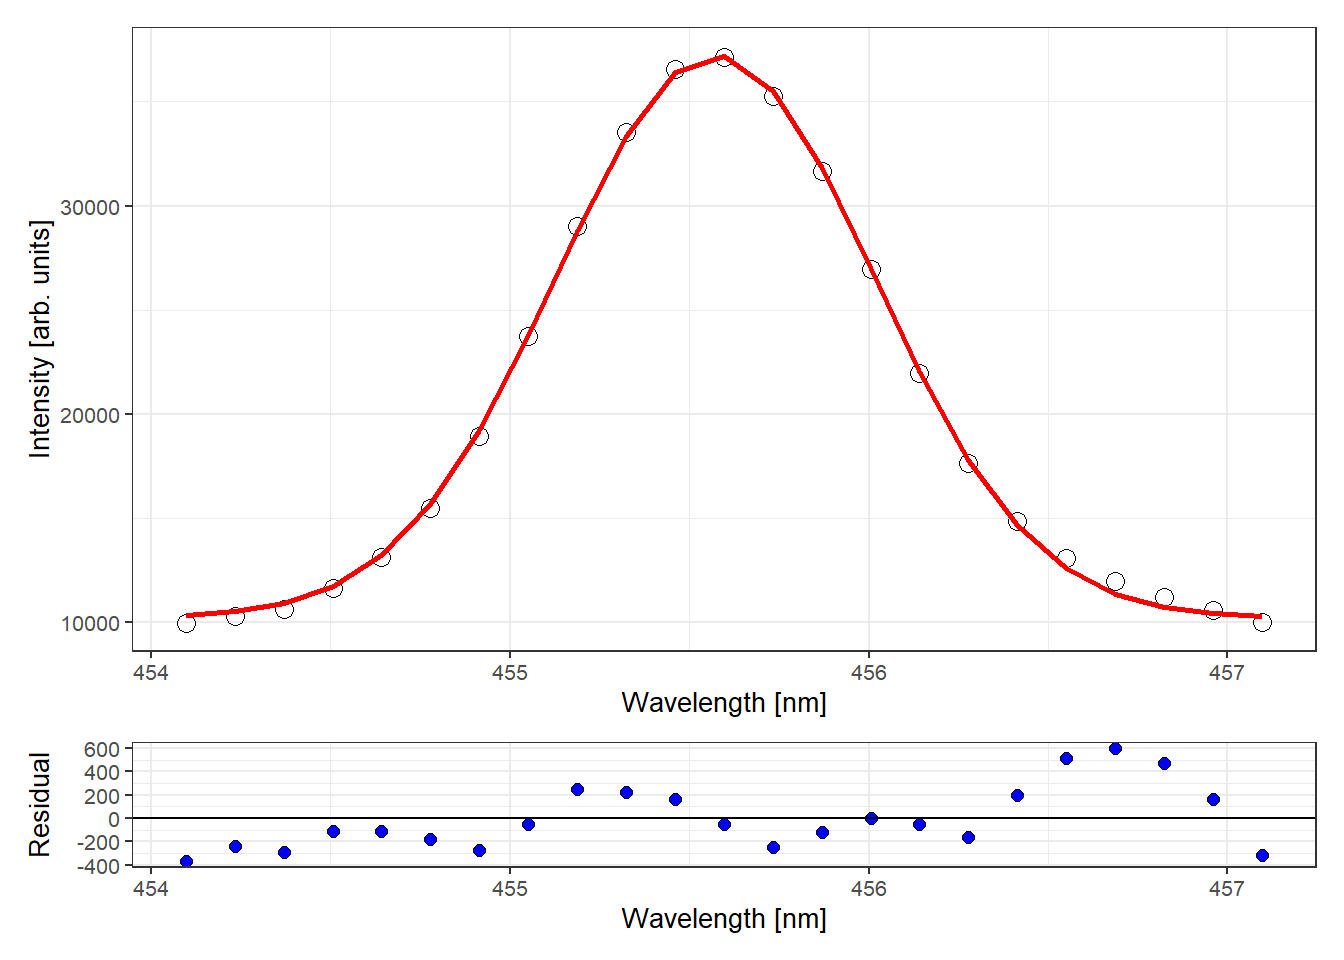
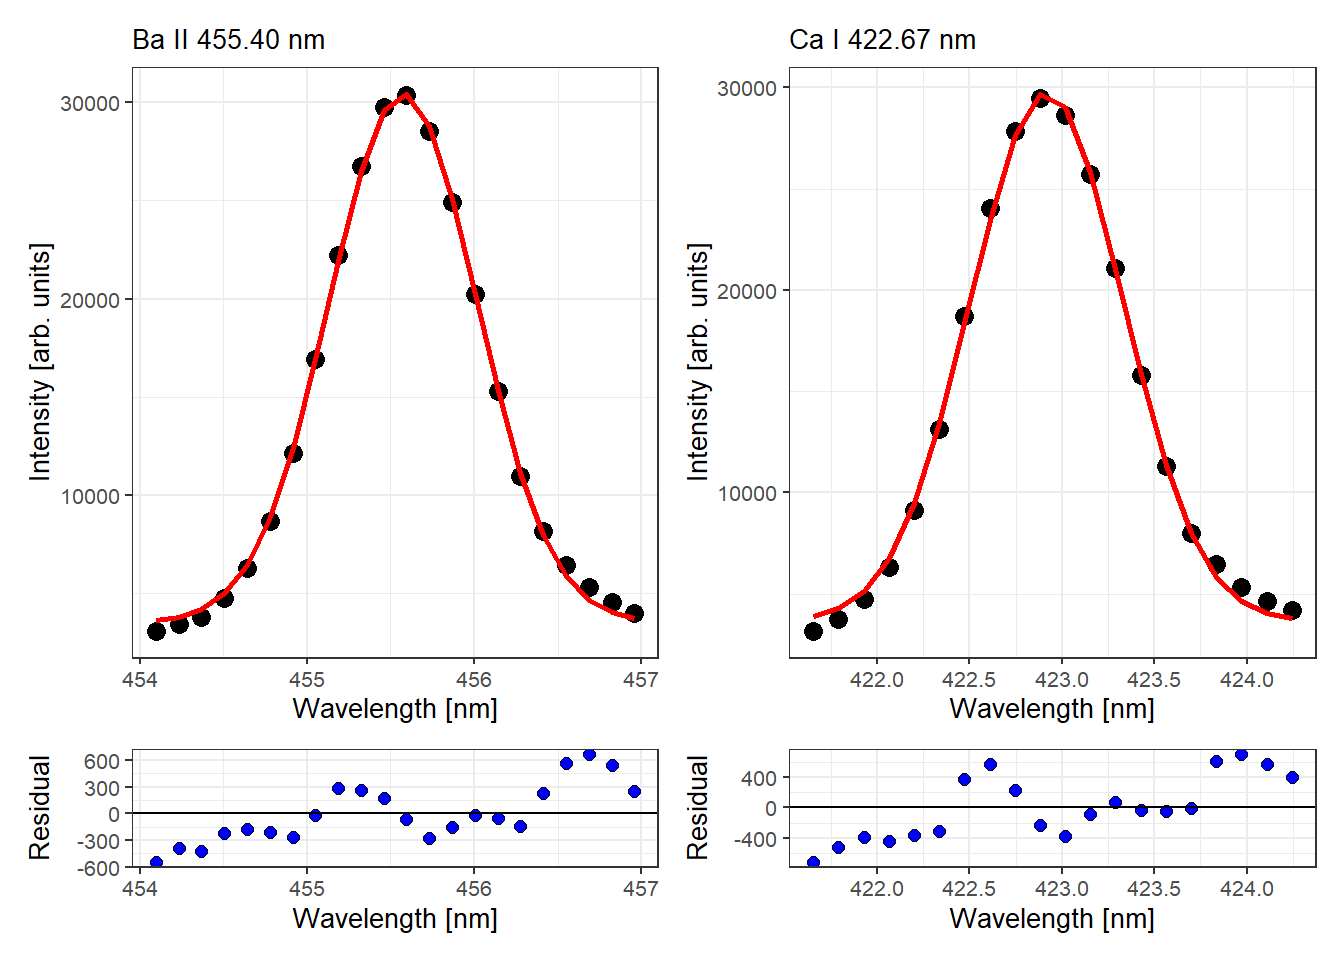
Updates

diff --git a/README.md b/README.md
@@ -179,7 +179,12 @@ Ba455_fit %>% pluck("tidied")
 Thus we can plot the obtained results, since a picture is worth a
 thousand words.
 
-<img src="man/figures/README-unnamed-chunk-20-1.png" width="90%" height="90%" />
+``` r
+plotFit(data = Ba455_fit, title = "Ba II 455.40 nm") | 
+  plotFit(data = Ca422_fit, title = "Ca I 422.67 nm")
+```
+
+<img src="man/figures/README-unnamed-chunk-18-1.png" width="90%" height="90%" />
 
 In fact, we should rather look at the Voigt profile, especially if we
 want to have an accurate measurement of the FWHM of the emission lines.
@@ -212,7 +217,12 @@ Ba455_fit2 %>% pluck("tidied")
 #> 5 A     33924.    3776.           8.98 7.26e- 8
 ```
 
-<img src="man/figures/README-unnamed-chunk-26-1.png" width="90%" height="90%" />
+``` r
+plotFit(data = Ba455_fit2, title = "Ba II 455.40 nm") | 
+  plotFit(data = Ca422_fit2, title = "Ca I 422.67 nm")
+```
+
+<img src="man/figures/README-unnamed-chunk-22-1.png" width="90%" height="90%" />
 
 On the other hand, it may sometimes be more advisable to fit multiple
 peaks at the same time. Here, the `multipeakfit` function is used.
